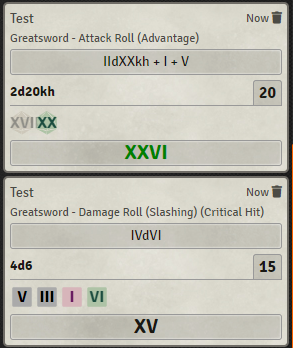
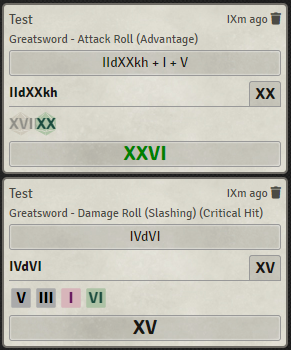
Format forumla parts as well

Changed region(s): [[0.0, 0.0, 1.0, 1.0], [0.3093, 0.8333, 0.3711, 0.8621], [0.2165, 0.8333, 0.2474, 0.8621]]

diff --git a/index.js b/index.js
@@ -36,7 +36,7 @@ function romanize(decimal) {
 
 Hooks.on('renderChatMessage', (message, html, data) => {
     const classesToReplace = [
-        'span', 'div', 'time', 'h4', 'li', '.dice-formula'
+        'span', 'div', 'time', 'h4', 'li', '.dice-formula', '.part-formula', '.part-total'
     ]
 
     classesToReplace.forEach(cls => {
